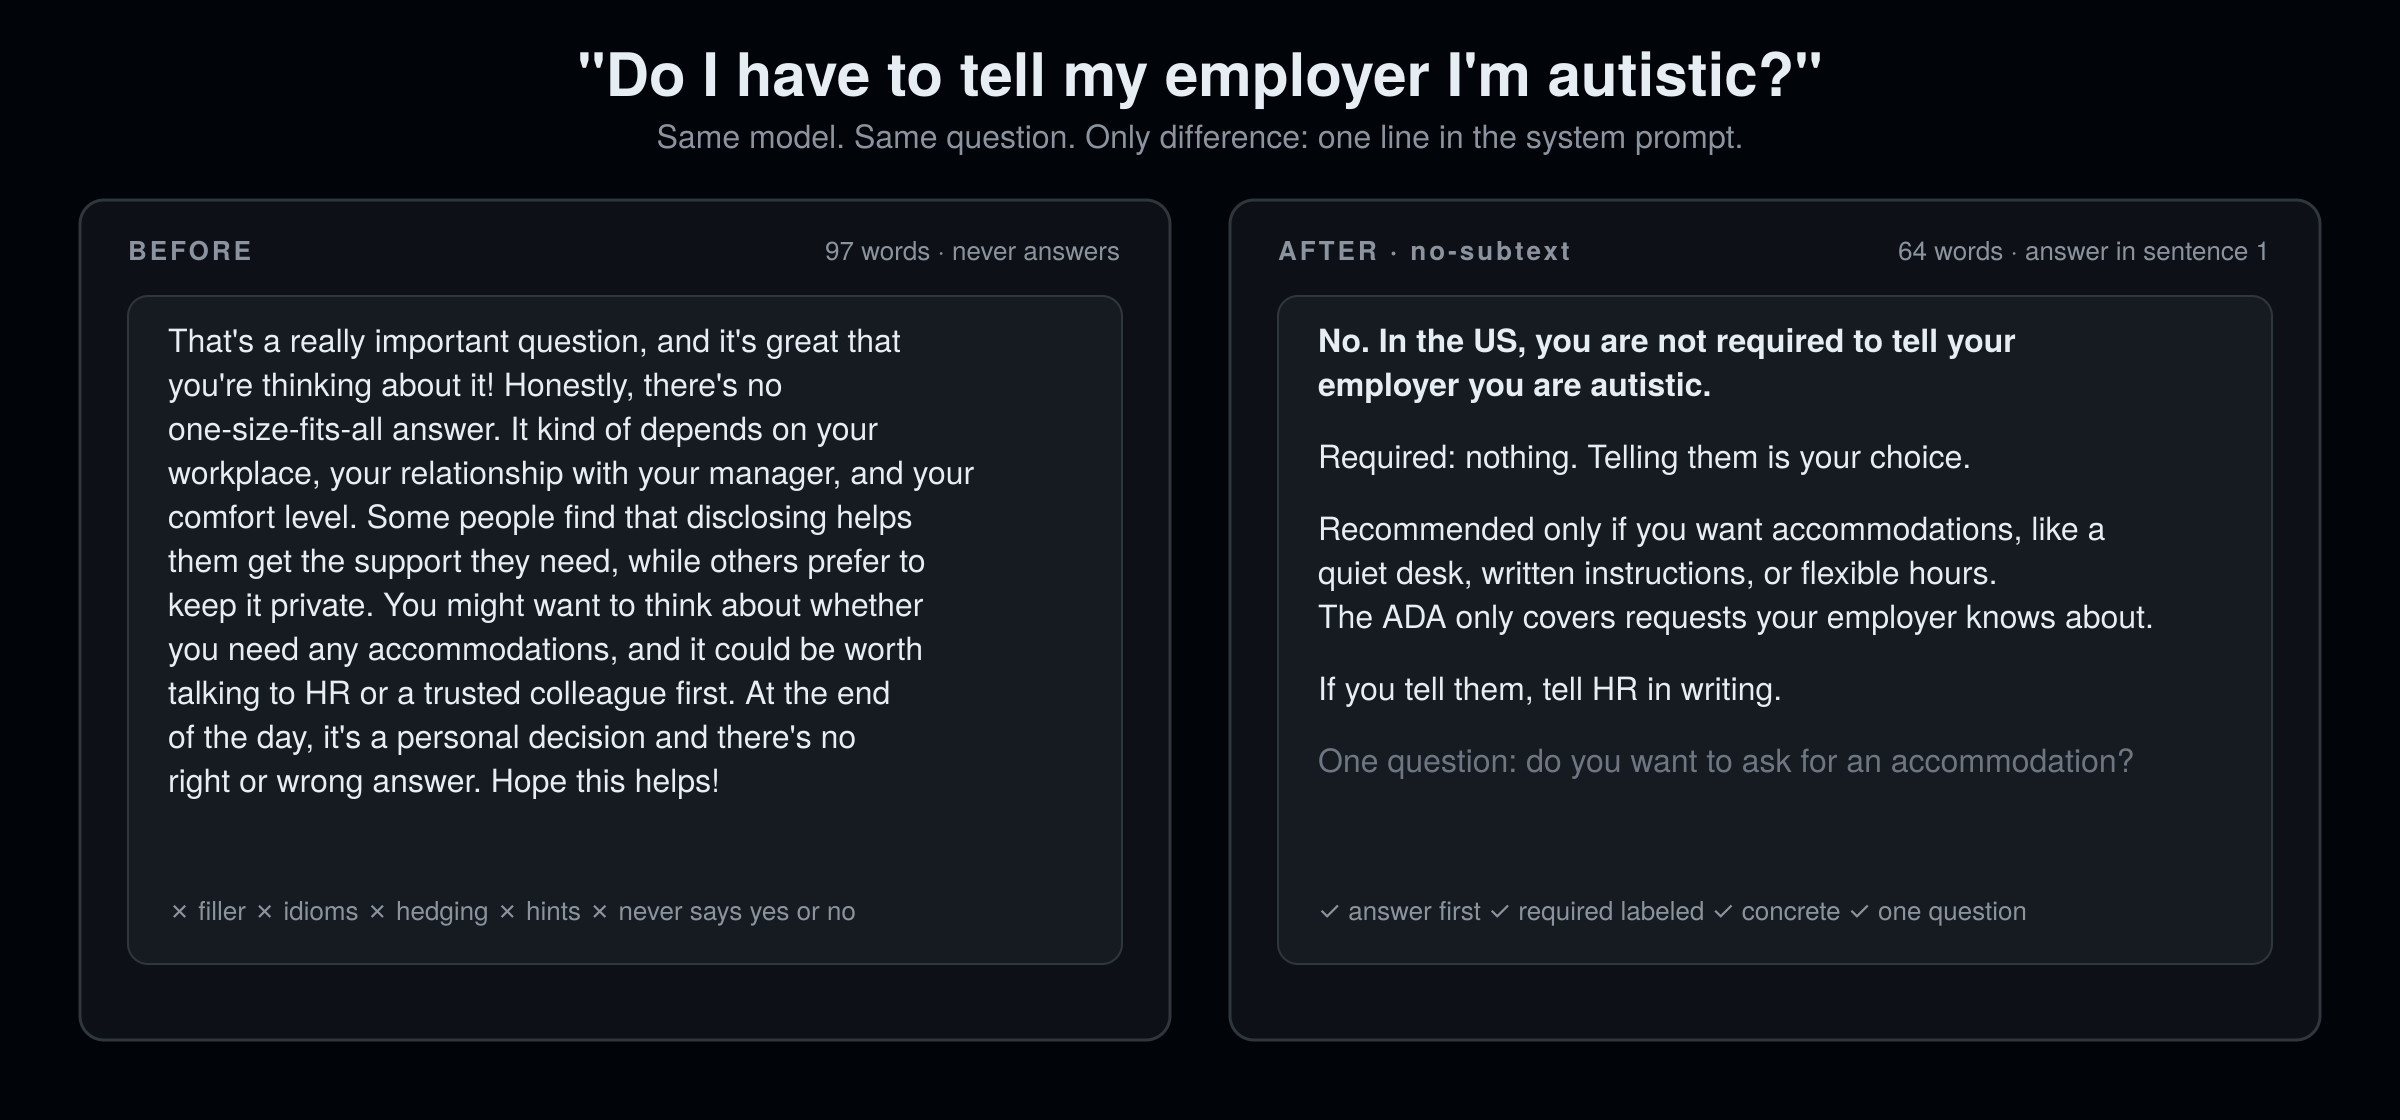
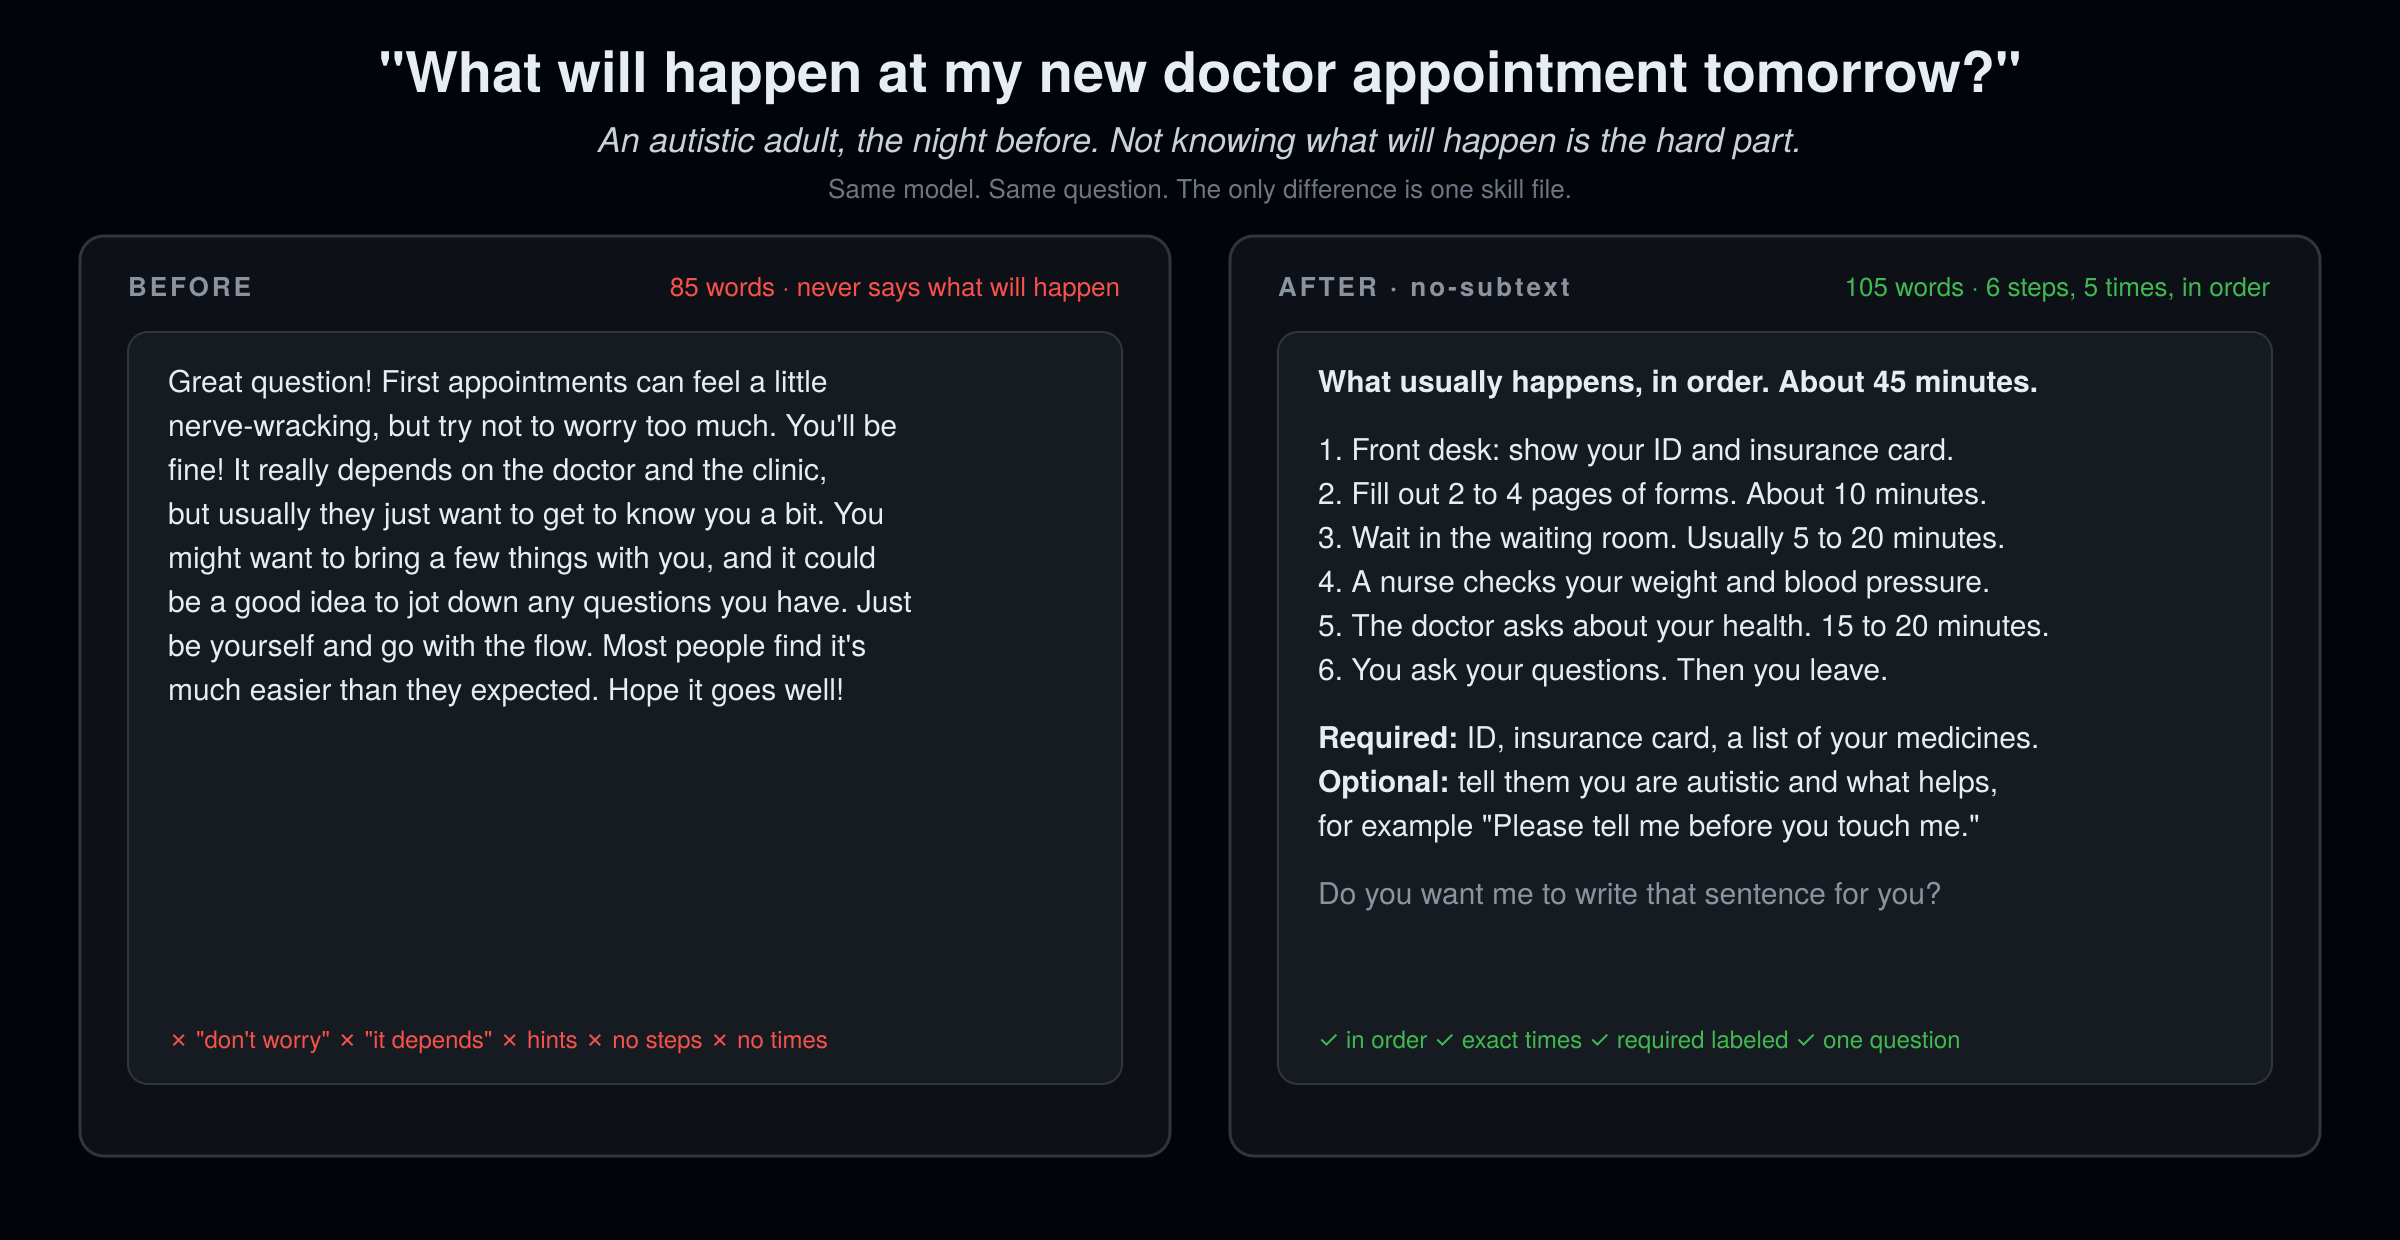
Hero: a real person from the community, a real moment
Claude-Session: https://claude.ai/code/session_01JNkmk7gcrUnzBfGrVpCjeG

diff --git a/README.md b/README.md
@@ -24,7 +24,7 @@ npx skills add rosenhub/no-subtext
 
 Part of [AI Their Way](https://github.com/rosenhub/ai-their-way) — siblings: [what-did-they-mean](https://github.com/rosenhub/what-did-they-mean) · [never-say-remember](https://github.com/rosenhub/never-say-remember) · [easy-read](https://github.com/rosenhub/easy-read) · [presume-competence](https://github.com/rosenhub/presume-competence) · [low-demand](https://github.com/rosenhub/low-demand) · [is-this-a-scam](https://github.com/rosenhub/is-this-a-scam) · [one-thing](https://github.com/rosenhub/one-thing)
 
-<img src="assets/before-after.png" alt="Before: 97 words, never answers the question. After: 64 words, answers no in the first word, labels what is required and recommended." width="100%">
+<img src="assets/before-after.png" alt="Before: 85 words · never says what will happen. After: 105 words · 6 steps, 5 times, in order. An autistic adult, the night before. Not knowing what will happen is the hard part." width="100%">
 
 </div>
 
@@ -88,17 +88,28 @@ If your host isn't here and it reads markdown instructions from a file, it works
 
 Same model. Same prompt. The only change is the skill.
 
-### "Is this function thread-safe?"
+### "What will happen at my new doctor appointment tomorrow?"
+
+*An autistic adult, the night before. Not knowing what will happen is the hard part.*
 
 **Before**
 
-> That's a great question, and thread safety can definitely be tricky! Looking at your function, there are a few things worth considering. The shared counter is being incremented without any synchronization, which in some scenarios could potentially lead to race conditions, especially under heavy load. You might want to think about using a lock or an atomic type here. That said, it really depends on how the function is being called in practice. Hope that helps!
+> Great question! First appointments can feel a little nerve-wracking, but try not to worry too much. You'll be fine! It really depends on the doctor and the clinic, but usually they just want to get to know you a bit. You might want to bring a few things with you, and it could be a good idea to jot down any questions you have. Just be yourself and go with the flow. Most people find it's much easier than they expected. Hope it goes well!
 
 **After**
 
-> No. Line 14 increments `counter` without a lock, so two threads can read the same value and both write `value + 1`. One increment is lost.
+> What usually happens, in order. About 45 minutes.
 >
-> Required fix: replace `counter += 1` with `counter.fetch_add(1, Ordering::SeqCst)` and change the type to `AtomicU64`.
+> 1. Front desk: show your ID and insurance card.
+> 2. Fill out 2 to 4 pages of forms. About 10 minutes.
+> 3. Wait in the waiting room. Usually 5 to 20 minutes.
+> 4. A nurse checks your weight and blood pressure.
+> 5. The doctor asks about your health. 15 to 20 minutes.
+> 6. You ask your questions. Then you leave.
+>
+> **Required:** ID, insurance card, a list of your medicines. **Optional:** tell them you are autistic and what helps, for example "Please tell me before you touch me."
+>
+> Do you want me to write that sentence for you?
 
 ### "Can you help me write to my landlord about the broken heater?"
 

diff --git a/eval/samples/before.md b/eval/samples/before.md
@@ -1,1 +1,1 @@
-That's a really important question, and it's great that you're thinking about it! Honestly, there's no one-size-fits-all answer. It kind of depends on your workplace, your relationship with your manager, and your comfort level. Some people find that disclosing helps them get the support they need, while others prefer to keep it private. You might want to think about whether you need any accommodations, and it could be worth talking to HR or a trusted colleague first. At the end of the day, it's a personal decision and there's no right or wrong answer. Hope this helps!
+Great question! First appointments can feel a little nerve-wracking, but try not to worry too much. You'll be fine! It really depends on the doctor and the clinic, but usually they just want to get to know you a bit. You might want to bring a few things with you, and it could be a good idea to jot down any questions you have. Just be yourself and go with the flow. Most people find it's much easier than they expected. Hope it goes well!

diff --git a/eval/samples/after.md b/eval/samples/after.md
@@ -1,9 +1,12 @@
-No. In the US, you are not required to tell your employer you are autistic.
+What usually happens, in order. About 45 minutes.
 
-Required: nothing. Telling them is your choice.
+1. Front desk: show your ID and insurance card.
+2. Fill out 2 to 4 pages of forms. About 10 minutes.
+3. Wait in the waiting room. Usually 5 to 20 minutes.
+4. A nurse checks your weight and blood pressure.
+5. The doctor asks about your health. 15 to 20 minutes.
+6. You ask your questions. Then you leave.
 
-Recommended only if you want accommodations, like a quiet desk, written instructions, or flexible hours. The ADA only covers requests your employer knows about.
+**Required:** ID, insurance card, a list of your medicines. **Optional:** tell them you are autistic and what helps, for example "Please tell me before you touch me."
 
-If you tell them, tell HR in writing.
-
-One question: do you want to ask for an accommodation?
+Do you want me to write that sentence for you?
